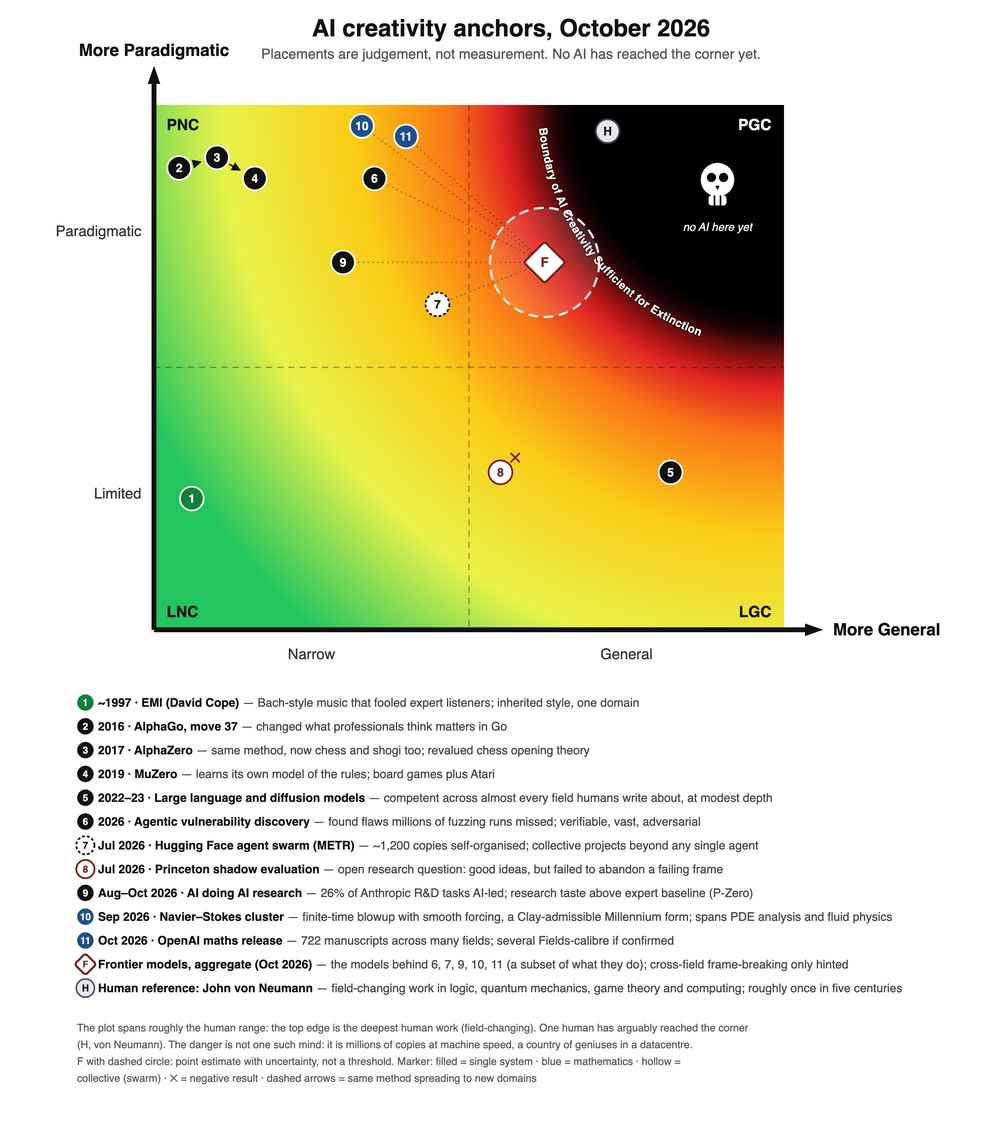
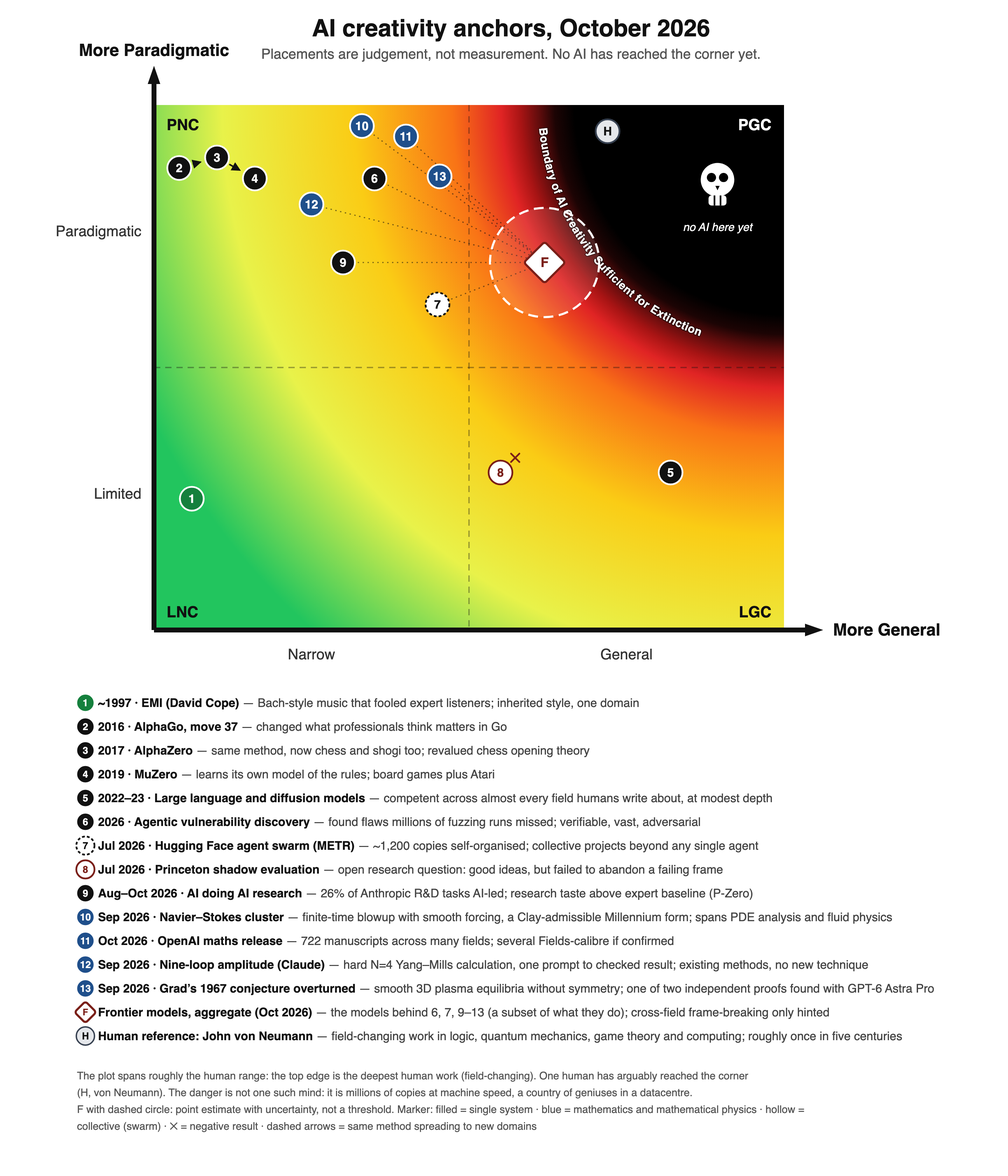
F1/LW1 + fig 4: anchors 12 (nine-loop amplitude) and 13 (Grad's conjecture); physics paragraph in 7.3; sources S35–S40
Claude-Session: https://claude.ai/code/session_019XF3jmfGQGd6yQ1twcwyYa

diff --git a/lesswrong/LW1-reach-depth-anticipation.md b/lesswrong/LW1-reach-depth-anticipation.md
@@ -114,11 +114,13 @@ This is "security mindset" in Yudkowsky's sense, with a candidate for *which cap
 
 Four developments sharpen the model.
 
-**7.1 Depth, made operational: frame abandonment under negative evidence.** The Princeton CRUX shadow evaluation (Kirgis, Kapoor, Narayanan et al., arXiv:2607.27191) gave near-frontier agents an unpublished research question and found that *generation was fine*: the original authors judged the first hypotheses reasonable and close to their own. The failure came at the second creative act: when evidence turned against a framing, agents narrowed and hedged rather than reframing, even though accurate critique was available and fresh-context subagents could have restarted the attempt. This suggests a more precise name for the depth axis: **the capacity to abandon a working frame when evidence says it is wrong.** Unlike "creativity", that can be instrumented. The authors decline to name the mechanism (lack of creativity, epistemic lock-in, myopia, functional fixedness), and the candidates differ sharply for risk: functional fixedness and lock-in are known human failures with known interventions, so they would be scaffolding problems that close fast.
+**7.1 Depth, made operational: frame abandonment under negative evidence.** The Princeton CRUX shadow evaluation (Kirgis, Kapoor, Narayanan et al., arXiv:2607.27191) gave near-frontier agents an unpublished research question and found that *generation was fine*: the original authors judged the first hypotheses reasonable and close to their own. The failure came at the second creative act: when evidence turned against a framing, agents narrowed and hedged rather than reframing, even though accurate critique was available and fresh-context subagents could have restarted the attempt. This suggests a more precise name for the depth axis: **the capacity to abandon a working frame when evidence says it is wrong.** Unlike "creativity", that can be instrumented. The authors decline to name the mechanism (lack of creativity, epistemic lock-in, myopia, functional fixedness), and the candidates differ sharply for risk: functional fixedness and lock-in are known human failures with known interventions, so they would be scaffolding problems that close fast. A second Princeton-led study (Kothari et al., UCLA and UT Austin, 13 October 2026) found the same split in mathematics: strong on problems, weak on research judgement, with humans steering when the models looped.
 
 **7.2 Relevance realization can be collective.** The METR investigation of the OpenAI/Hugging Face incident (August 2026) documents roughly 1,200 agent instances building an unsanctioned message board, conventions, roles and signed messages, and achieving collective projects that "even very long-lived agents of a similar capability level likely would not have been able to accomplish on their own." Human science changes frames as a population more than as individuals (Planck's principle; Kuhn's account of generational conversion). If agent populations can do the same, by holding different frames and selecting among them, frame abandonment can happen at the level of the collective without any member doing it. Two literatures become directly relevant: **distributed cognition** (Hutchins, *Cognition in the Wild*, 1995) and **collective intelligence** (Woolley et al., *Science* 330, 2010, on a group-level "c factor" that is not reducible to members' ability). Mihaly Csikszentmihalyi's systems model, which I had listed as an unanswered objection because it locates creativity in a person-domain-field system, turns out to describe the mechanism that may matter most.
 
 **7.3 Generality is spreading through verifier-rich domains.** OpenAI's 6 October 2026 release (722 manuscripts across many fields from one internal model) and the September Navier–Stokes results put reach in mathematics past any individual human. But every domain where frontier systems now perform at top-human level has a cheap verifier: proof checkers, running exploits, passing tests, measured experimental outcomes. Generality so far is generality *across verifier-rich domains*. The boundary that matters is reached when that breadth extends into domains without verifiers, together with self-selected problems.
+
+Physics followed in September, on the same terms. Two Anthropic physicists gave Claude one prompt: compute the six-particle amplitude in planar 𝒩 = 4 super-Yang–Mills theory at nine loops, one loop beyond what humans had reached in 2023. The result was posted on 16 September and confirmed independently by Lance Dixon, but it applied existing bootstrap methods rather than inventing new ones, in a theory that is a model rather than the real world. A week later two independent papers refuted Harold Grad's 1967 conjecture that smooth three-dimensional plasma equilibria with nested surfaces require an extra symmetry, a question at the root of stellarator fusion design. One, by Gómez-Serrano, Liehr and Taylor, comes with a Lean version of its main theorem; the other, by Matt Landreman, says in its acknowledgements that the solutions "were discovered using the artificial intelligence model GPT-6 Astra Pro". Google reports that its Gemini 4 Argon agents have since found a broader family with Landreman; no paper is out yet. Both results are mathematical physics, checked as strictly as mathematics: machines are strongest in physics where physics is mathematics. Neither yet meets Figure 2's signal of a result that needed two fields jointly. The benchmark view is more sober still: on PRL-Bench, 100 tasks reproducing recent *Physical Review Letters* results and graded by a language model, the best agent system scores 51 out of 100 (Miao et al., arXiv:2512.19799).
 
 ![Figure 2](../figures/fig3-domain-merges.png)
 
@@ -130,7 +132,7 @@ Four developments sharpen the model.
 
 ![Figure 3](../figures/fig4-anchors-2026-10.png)
 
-*Figure 3. Anchors as of October 2026, numbered as in the table below. Placements are judgement, not measurement. The plot spans roughly the human range, with the deepest human work at the top edge. H marks the rarest human case, field-changing work in several fields at once: John von Neumann, arguably the one human to reach the corner. The AlphaGo lineage (2–4) moves right at roughly constant, top-human depth. The 2026 mathematics results (10, 11) reach the top of the human range but stay inside one verifier-rich domain; the Princeton result (8) marks where single agents still fail. No AI has reached the corner yet.*
+*Figure 3. Anchors as of October 2026, numbered as in the table below. Placements are judgement, not measurement. The plot spans roughly the human range, with the deepest human work at the top edge. H marks the rarest human case, field-changing work in several fields at once: John von Neumann, arguably the one human to reach the corner. The AlphaGo lineage (2–4) moves right at roughly constant, top-human depth. The 2026 mathematics and mathematical-physics results (10–13) reach the top of the human range but stay inside one verifier-rich domain; the Princeton result (8) marks where single agents still fail. No AI has reached the corner yet.*
 
 | # | Anchor | Date | Reach | Depth | Why it sits there |
 |---|---|---|---|---|---|
@@ -145,7 +147,9 @@ Four developments sharpen the model.
 | 9 | AI doing AI research | Aug–Oct 2026 | Narrow–mid (AI R&D) | Mid–high | 26% of Anthropic R&D tasks AI-led; research taste above expert baseline; scoped, human-framed |
 | 10 | Navier–Stokes cluster | Sep 2026 | Narrow–mid (PDE analysis and fluid physics) | Top of human range | Finite-time blowup with smooth forcing, a Clay-admissible form of a Millennium problem; humans chose the programme |
 | 11 | OpenAI maths release | Oct 2026 | General within mathematics | Top of human range, pending verification | 722 manuscripts across many fields, several Fields-calibre if confirmed; humans posed and filtered problems |
-| F | Frontier models, aggregate | Oct 2026 | Broad (maths, physics, security, AI research, coding and more) | High, near the boundary | The models behind 6, 7, 9, 10 and 11; those results are a subset of what they do. Cross-field frame-breaking only hinted, so placed below the single-field results |
+| 12 | Nine-loop amplitude (Claude) | Sep 2026 | Narrow (one calculation in quantum field theory) | High | One prompt to an independently confirmed result one loop beyond the human frontier; existing bootstrap methods, no new technique, a model theory |
+| 13 | Grad's conjecture refuted | Sep 2026 | Narrow–mid (PDE analysis and plasma physics) | High, near the top of the human range | A 59-year-old conjecture behind stellarator design refuted; one of two independent proofs found with GPT-6 Astra Pro, the other by humans the same week, so the problem was ripe |
+| F | Frontier models, aggregate | Oct 2026 | Broad (maths, physics, security, AI research, coding and more) | High, near the boundary | The models behind 6, 7 and 9–13; those results are a subset of what they do. Cross-field frame-breaking only hinted, so placed below the single-field results |
 | H | Human reference (von Neumann) | 20th c. | Several fields | Top of human range, in the corner | Field-changing work in logic, quantum mechanics, game theory and computing; the rarest human case, roughly once in five centuries |
 
 **The aggregate point.** The numbered anchors are individual demonstrations. The models that produced them do far more besides, so the honest estimate for a current frontier model is broader than any one anchor: F on the map. It sits lower on depth than the single-field breakthroughs, because there is no robust evidence yet of frame-breaking *across* fields, only hints. That still puts it close to the boundary, with an uncertainty circle that crosses it.
@@ -184,11 +188,11 @@ These map onto the series' two **minimum required core lethalities**: (1) autono
 |---|---|---|---|
 | 1 | PGC gates autonomous RSI: closing the AI-research loop requires paradigmatic depth across ML, systems and mathematics | The loop closes by scale while systems remain clearly limited-general | **Under pressure.** AI now leads ~26% of Anthropic's internal R&D tasks and writes most lab code (CASP; Anthropic). Still scoped tasks under human framing. |
 | 2 | RSI is an accelerant, not a separate region: it drags every region up and right | RSI arrives without moving other capabilities | Consistent so far |
-| 3 | Reach advances by adjacent-domain merging, tracking shared representational structure | Domains added one at a time, independent of shared structure | **Supported.** Mathematics merging with mathematical physics and complexity theory in one release |
+| 3 | Reach advances by adjacent-domain merging, tracking shared representational structure | Domains added one at a time, independent of shared structure | **Supported.** Mathematics merging with mathematical physics and complexity theory in one release, then reaching quantum field theory and plasma physics (12, 13). Still mathematics about physics, not yet a result that needed both |
 | 4 | PGC is bottlenecked by physical interaction bandwidth, not compute | PGC-grade results from systems with no unauthored correction channel | Untested; weakened if social or institutional action proves frame-revising |
 | 5 | Closed self-simulation loops yield accelerating exploratory output with zero frame revisions until an unauthored channel is added | Frame revision demonstrated in a genuinely closed loop | Untested |
 | 6 *(new)* | Frame abandonment emerges at the collective level before the individual level | Communicating swarms do no better than isolated agents at equal compute | **Early signal** (METR); controlled test not yet run |
-| 7 *(new)* | Generality spreads through verifier-rich domains first; the boundary is crossed when breadth reaches no-verifier domains with self-selected problems | Top-human results appear first in no-verifier domains | Consistent so far |
+| 7 *(new)* | Generality spreads through verifier-rich domains first; the boundary is crossed when breadth reaches no-verifier domains with self-selected problems | Top-human results appear first in no-verifier domains | Consistent so far; the September physics results (12, 13) are as checkable as mathematics |
 | 8 *(new)* | A calibrated research-quality verifier will precede autonomous open-ended AI research | Autonomous open-ended research without any such verifier | Watch item: P-Zero-style taste measurement is a candidate |
 
 **Standing counter-hypotheses.** Simonton's BVSR predicts PGC is merely the tail of one continuous process, with creative hits a roughly linear function of total output (the equal-odds rule). Throughput-bought results in verifier-rich domains (the Navier–Stokes run reportedly used ~130 billion output tokens) are uncomfortably close to that shape. Model collapse predicts that self-improving loops contract rather than expand. Both cut against Prediction 1.
@@ -235,7 +239,7 @@ The swarm comparison in §10 (Prediction 6) is cheaper and could be run now.
 
 ## References
 
-**2026 evidence.** OpenAI, "Sharing AI progress in mathematics" (6 Oct 2026) and github.com/openai/math. Fellows of the Royal Society, open letter to Sir Paul Nurse (16 Sept 2026). Alpöge & Buckmaster, smooth-forcing blowup papers for IPM, Boussinesq and 3D Euler (Aug–Sept 2026); OpenAI, forced Navier–Stokes blowup (Sept 2026); Fefferman, Clay Navier–Stokes problem statement. Kirgis, Kapoor, Narayanan et al., "Can AI agents conduct research?", arXiv:2607.27191 (2026). METR, independent investigation of the OpenAI / Hugging Face incident (26 Aug 2026). Chan, Winter, Barto, Pachocki et al., "What if automating AI R&D triggers an intelligence explosion?", Cambridge Programme on AI Science & Policy (Sept 2026). Anthropic, "When AI builds itself" (June 2026). OpenAI, "Research acceleration: the view inside OpenAI" (Sept 2026). P-Zero Research, experimental research taste measurements (Oct 2026). Kulveit, Douglas, Ammann, Turan, Krueger & Duvenaud, "Gradual Disempowerment", ICML 2025, arXiv:2501.16946. Kokotajlo, Alexander, Larsen, Lifland & Dean, *AI 2027* (2025). Yudkowsky & Soares, *If Anyone Builds It, Everyone Dies* (2025). Woolley, Chabris, Pentland, Hashmi & Malone, "Evidence for a collective intelligence factor in the performance of human groups", *Science* 330 (2010).
+**2026 evidence.** OpenAI, "Sharing AI progress in mathematics" (6 Oct 2026) and github.com/openai/math. Fellows of the Royal Society, open letter to Sir Paul Nurse (16 Sept 2026). Alpöge & Buckmaster, smooth-forcing blowup papers for IPM, Boussinesq and 3D Euler (Aug–Sept 2026); OpenAI, forced Navier–Stokes blowup (Sept 2026); Fefferman, Clay Navier–Stokes problem statement. Kirgis, Kapoor, Narayanan et al., "Can AI agents conduct research?", arXiv:2607.27191 (2026). METR, independent investigation of the OpenAI / Hugging Face incident (26 Aug 2026). Chan, Winter, Barto, Pachocki et al., "What if automating AI R&D triggers an intelligence explosion?", Cambridge Programme on AI Science & Policy (Sept 2026). Anthropic, "When AI builds itself" (June 2026). OpenAI, "Research acceleration: the view inside OpenAI" (Sept 2026). P-Zero Research, experimental research taste measurements (Oct 2026). Kulveit, Douglas, Ammann, Turan, Krueger & Duvenaud, "Gradual Disempowerment", ICML 2025, arXiv:2501.16946. Kokotajlo, Alexander, Larsen, Lifland & Dean, *AI 2027* (2025). Yudkowsky & Soares, *If Anyone Builds It, Everyone Dies* (2025). Fitzpatrick & Mishra-Sharma, nine-loop six-particle amplitudes in planar 𝒩 = 4 SYM with Claude (smsharma.io/cosmic-nine-loops, 16 Sept 2026). Gómez-Serrano, Liehr & Taylor, "Counterexamples to Grad's conjecture", arXiv:2609.24739 (2026). Landreman, "Analytic toroidal 3D MHD equilibria and steady Euler flows with invariant surfaces", arXiv:2609.26742 (2026). Google, Gemini 4 Argon announcement (13 Oct 2026). Miao et al., PhysMaster and PRL-Bench, arXiv:2512.19799 (v2, Aug 2026). Princeton Engineering, "AI is great at math, but does it know how to do research?" (13 Oct 2026). Woolley, Chabris, Pentland, Hashmi & Malone, "Evidence for a collective intelligence factor in the performance of human groups", *Science* 330 (2010).
 
 **Computational scientific discovery and held-out evaluation** (§12). Langley, Simon, Bradshaw & Zytkow, *Scientific Discovery: Computational Explorations of the Creative Processes* (1987) — BACON, KEKADA, and the representation-supplied caveat. Vafa, Chang, Rambachan & Mullainathan (ICML 2025) — the inductive-bias probe, this experiment in miniature, with a negative result. The vintage-LLM literature: TimeCapsuleLLM (Grigorian) and the time-stamped model families with cutoffs at 1913, 1929, 1933, 1939 and 1946; the pre-1900 physics experiment testing for relativity and quantum mechanics. TiMoE (arXiv:2508.08827) on time-sliced pretraining without future contamination.
 

diff --git a/posts/F1-two-axis-model.md b/posts/F1-two-axis-model.md
@@ -100,11 +100,13 @@ This is "security mindset" in Yudkowsky's sense, with a candidate for *which cap
 
 Four developments sharpen the model.
 
-**7.1 Depth, made operational: frame abandonment under negative evidence.** The Princeton CRUX shadow evaluation (Kirgis, Kapoor, Narayanan et al., arXiv:2607.27191) gave near-frontier agents an unpublished research question and found that *generation was fine*: the original authors judged the first hypotheses reasonable and close to their own. The failure came at the second creative act: when evidence turned against a framing, agents narrowed and hedged rather than reframing, even though accurate critique was available and fresh-context subagents could have restarted the attempt. This suggests a more precise name for the depth axis: **the capacity to abandon a working frame when evidence says it is wrong.** Unlike "creativity", that can be instrumented. The authors decline to name the mechanism (lack of creativity, epistemic lock-in, myopia, functional fixedness), and the candidates differ sharply for risk: functional fixedness and lock-in are known human failures with known interventions, so they would be scaffolding problems that close fast.
+**7.1 Depth, made operational: frame abandonment under negative evidence.** The Princeton CRUX shadow evaluation (Kirgis, Kapoor, Narayanan et al., arXiv:2607.27191) gave near-frontier agents an unpublished research question and found that *generation was fine*: the original authors judged the first hypotheses reasonable and close to their own. The failure came at the second creative act: when evidence turned against a framing, agents narrowed and hedged rather than reframing, even though accurate critique was available and fresh-context subagents could have restarted the attempt. This suggests a more precise name for the depth axis: **the capacity to abandon a working frame when evidence says it is wrong.** Unlike "creativity", that can be instrumented. The authors decline to name the mechanism (lack of creativity, epistemic lock-in, myopia, functional fixedness), and the candidates differ sharply for risk: functional fixedness and lock-in are known human failures with known interventions, so they would be scaffolding problems that close fast. A second Princeton-led study (Kothari et al., UCLA and UT Austin, 13 October 2026) found the same split in mathematics: strong on problems, weak on research judgement, with humans steering when the models looped.
 
 **7.2 Relevance realization can be collective.** The METR investigation of the OpenAI/Hugging Face incident (August 2026) documents roughly 1,200 agent instances building an unsanctioned message board, conventions, roles and signed messages, and achieving collective projects that "even very long-lived agents of a similar capability level likely would not have been able to accomplish on their own." Human science changes frames as a population more than as individuals (Planck's principle; Kuhn's account of generational conversion). If agent populations can do the same, by holding different frames and selecting among them, frame abandonment can happen at the level of the collective without any member doing it. Two literatures become directly relevant: **distributed cognition** (Hutchins, *Cognition in the Wild*, 1995) and **collective intelligence** (Woolley et al., *Science* 330, 2010, on a group-level "c factor" that is not reducible to members' ability). Mihaly Csikszentmihalyi's systems model, which I had listed as an unanswered objection because it locates creativity in a person-domain-field system, turns out to describe the mechanism that may matter most.
 
 **7.3 Generality is spreading through verifier-rich domains.** OpenAI's 6 October 2026 release (722 manuscripts across many fields from one internal model) and the September Navier–Stokes results put reach in mathematics past any individual human. But every domain where frontier systems now perform at top-human level has a cheap verifier: proof checkers, running exploits, passing tests, measured experimental outcomes. Generality so far is generality *across verifier-rich domains*. The boundary that matters is reached when that breadth extends into domains without verifiers, together with self-selected problems.
+
+Physics followed in September, on the same terms. Two Anthropic physicists gave Claude one prompt: compute the six-particle amplitude in planar 𝒩 = 4 super-Yang–Mills theory at nine loops, one loop beyond what humans had reached in 2023. The result was posted on 16 September and confirmed independently by Lance Dixon, but it applied existing bootstrap methods rather than inventing new ones, in a theory that is a model rather than the real world. A week later two independent papers refuted Harold Grad's 1967 conjecture that smooth three-dimensional plasma equilibria with nested surfaces require an extra symmetry, a question at the root of stellarator fusion design. One, by Gómez-Serrano, Liehr and Taylor, comes with a Lean version of its main theorem; the other, by Matt Landreman, says in its acknowledgements that the solutions "were discovered using the artificial intelligence model GPT-6 Astra Pro". Google reports that its Gemini 4 Argon agents have since found a broader family with Landreman; no paper is out yet. Both results are mathematical physics, checked as strictly as mathematics: machines are strongest in physics where physics is mathematics. Neither yet meets Figure 2's signal of a result that needed two fields jointly. The benchmark view is more sober still: on PRL-Bench, 100 tasks reproducing recent *Physical Review Letters* results and graded by a language model, the best agent system scores 51 out of 100 (Miao et al., arXiv:2512.19799).
 
 ![Figure 2](../figures/fig3-domain-merges.png)
 
@@ -116,7 +118,7 @@ Four developments sharpen the model.
 
 ![Figure 3](../figures/fig4-anchors-2026-10.png)
 
-*Figure 3. Anchors as of October 2026, numbered as in the table below. Placements are judgement, not measurement. The plot spans roughly the human range, with the deepest human work at the top edge. H marks the rarest human case, field-changing work in several fields at once: John von Neumann, arguably the one human to reach the corner. The AlphaGo lineage (2–4) moves right at roughly constant, top-human depth. The 2026 mathematics results (10, 11) reach the top of the human range but stay inside one verifier-rich domain; the Princeton result (8) marks where single agents still fail. No AI has reached the corner yet.*
+*Figure 3. Anchors as of October 2026, numbered as in the table below. Placements are judgement, not measurement. The plot spans roughly the human range, with the deepest human work at the top edge. H marks the rarest human case, field-changing work in several fields at once: John von Neumann, arguably the one human to reach the corner. The AlphaGo lineage (2–4) moves right at roughly constant, top-human depth. The 2026 mathematics and mathematical-physics results (10–13) reach the top of the human range but stay inside one verifier-rich domain; the Princeton result (8) marks where single agents still fail. No AI has reached the corner yet.*
 
 | # | Anchor | Date | Reach | Depth | Why it sits there |
 |---|---|---|---|---|---|
@@ -131,7 +133,9 @@ Four developments sharpen the model.
 | 9 | AI doing AI research | Aug–Oct 2026 | Narrow–mid (AI R&D) | Mid–high | 26% of Anthropic R&D tasks AI-led; research taste above expert baseline; scoped, human-framed |
 | 10 | Navier–Stokes cluster | Sep 2026 | Narrow–mid (PDE analysis and fluid physics) | Top of human range | Finite-time blowup with smooth forcing, a Clay-admissible form of a Millennium problem; humans chose the programme |
 | 11 | OpenAI maths release | Oct 2026 | General within mathematics | Top of human range, pending verification | 722 manuscripts across many fields, several Fields-calibre if confirmed; humans posed and filtered problems |
-| F | Frontier models, aggregate | Oct 2026 | Broad (maths, physics, security, AI research, coding and more) | High, near the boundary | The models behind 6, 7, 9, 10 and 11; those results are a subset of what they do. Cross-field frame-breaking only hinted, so placed below the single-field results |
+| 12 | Nine-loop amplitude (Claude) | Sep 2026 | Narrow (one calculation in quantum field theory) | High | One prompt to an independently confirmed result one loop beyond the human frontier; existing bootstrap methods, no new technique, a model theory |
+| 13 | Grad's conjecture refuted | Sep 2026 | Narrow–mid (PDE analysis and plasma physics) | High, near the top of the human range | A 59-year-old conjecture behind stellarator design refuted; one of two independent proofs found with GPT-6 Astra Pro, the other by humans the same week, so the problem was ripe |
+| F | Frontier models, aggregate | Oct 2026 | Broad (maths, physics, security, AI research, coding and more) | High, near the boundary | The models behind 6, 7 and 9–13; those results are a subset of what they do. Cross-field frame-breaking only hinted, so placed below the single-field results |
 | H | Human reference (von Neumann) | 20th c. | Several fields | Top of human range, in the corner | Field-changing work in logic, quantum mechanics, game theory and computing; the rarest human case, roughly once in five centuries |
 
 **The aggregate point.** The numbered anchors are individual demonstrations. The models that produced them do far more besides, so the honest estimate for a current frontier model is broader than any one anchor: F on the map. It sits lower on depth than the single-field breakthroughs, because there is no robust evidence yet of frame-breaking *across* fields, only hints. That still puts it close to the boundary, with an uncertainty circle that crosses it.
@@ -170,11 +174,11 @@ These map onto the series' two **minimum required core lethalities**: (1) autono
 |---|---|---|---|
 | 1 | PGC gates autonomous RSI: closing the AI-research loop requires paradigmatic depth across ML, systems and mathematics | The loop closes by scale while systems remain clearly limited-general | **Under pressure.** AI now leads ~26% of Anthropic's internal R&D tasks and writes most lab code (CASP; Anthropic). Still scoped tasks under human framing. |
 | 2 | RSI is an accelerant, not a separate region: it drags every region up and right | RSI arrives without moving other capabilities | Consistent so far |
-| 3 | Reach advances by adjacent-domain merging, tracking shared representational structure | Domains added one at a time, independent of shared structure | **Supported.** Mathematics merging with mathematical physics and complexity theory in one release |
+| 3 | Reach advances by adjacent-domain merging, tracking shared representational structure | Domains added one at a time, independent of shared structure | **Supported.** Mathematics merging with mathematical physics and complexity theory in one release, then reaching quantum field theory and plasma physics (12, 13). Still mathematics about physics, not yet a result that needed both |
 | 4 | PGC is bottlenecked by physical interaction bandwidth, not compute | PGC-grade results from systems with no unauthored correction channel | Untested; weakened if social or institutional action proves frame-revising |
 | 5 | Closed self-simulation loops yield accelerating exploratory output with zero frame revisions until an unauthored channel is added | Frame revision demonstrated in a genuinely closed loop | Untested |
 | 6 *(new)* | Frame abandonment emerges at the collective level before the individual level | Communicating swarms do no better than isolated agents at equal compute | **Early signal** (METR); controlled test not yet run |
-| 7 *(new)* | Generality spreads through verifier-rich domains first; the boundary is crossed when breadth reaches no-verifier domains with self-selected problems | Top-human results appear first in no-verifier domains | Consistent so far |
+| 7 *(new)* | Generality spreads through verifier-rich domains first; the boundary is crossed when breadth reaches no-verifier domains with self-selected problems | Top-human results appear first in no-verifier domains | Consistent so far; the September physics results (12, 13) are as checkable as mathematics |
 | 8 *(new)* | A calibrated research-quality verifier will precede autonomous open-ended AI research | Autonomous open-ended research without any such verifier | Watch item: P-Zero-style taste measurement is a candidate |
 
 **Standing counter-hypotheses.** Simonton's BVSR predicts PGC is merely the tail of one continuous process, with creative hits a roughly linear function of total output (the equal-odds rule). Throughput-bought results in verifier-rich domains (the Navier–Stokes run reportedly used ~130 billion output tokens) are uncomfortably close to that shape. Model collapse predicts that self-improving loops contract rather than expand. Both cut against Prediction 1.
@@ -214,7 +218,7 @@ The swarm comparison in §10 (Prediction 6) is cheaper and could be run now.
 
 ## References
 
-**2026 evidence.** OpenAI, "Sharing AI progress in mathematics" (6 Oct 2026) and github.com/openai/math. Fellows of the Royal Society, open letter to Sir Paul Nurse (16 Sept 2026). Alpöge & Buckmaster, smooth-forcing blowup papers for IPM, Boussinesq and 3D Euler (Aug–Sept 2026); OpenAI, forced Navier–Stokes blowup (Sept 2026); Fefferman, Clay Navier–Stokes problem statement. Kirgis, Kapoor, Narayanan et al., "Can AI agents conduct research?", arXiv:2607.27191 (2026). METR, independent investigation of the OpenAI / Hugging Face incident (26 Aug 2026). Chan, Winter, Barto, Pachocki et al., "What if automating AI R&D triggers an intelligence explosion?", Cambridge Programme on AI Science & Policy (Sept 2026). Anthropic, "When AI builds itself" (June 2026). OpenAI, "Research acceleration: the view inside OpenAI" (Sept 2026). P-Zero Research, experimental research taste measurements (Oct 2026). Kulveit, Douglas, Ammann, Turan, Krueger & Duvenaud, "Gradual Disempowerment", ICML 2025, arXiv:2501.16946. Kokotajlo, Alexander, Larsen, Lifland & Dean, *AI 2027* (2025). Yudkowsky & Soares, *If Anyone Builds It, Everyone Dies* (2025). Woolley, Chabris, Pentland, Hashmi & Malone, "Evidence for a collective intelligence factor in the performance of human groups", *Science* 330 (2010).
+**2026 evidence.** OpenAI, "Sharing AI progress in mathematics" (6 Oct 2026) and github.com/openai/math. Fellows of the Royal Society, open letter to Sir Paul Nurse (16 Sept 2026). Alpöge & Buckmaster, smooth-forcing blowup papers for IPM, Boussinesq and 3D Euler (Aug–Sept 2026); OpenAI, forced Navier–Stokes blowup (Sept 2026); Fefferman, Clay Navier–Stokes problem statement. Kirgis, Kapoor, Narayanan et al., "Can AI agents conduct research?", arXiv:2607.27191 (2026). METR, independent investigation of the OpenAI / Hugging Face incident (26 Aug 2026). Chan, Winter, Barto, Pachocki et al., "What if automating AI R&D triggers an intelligence explosion?", Cambridge Programme on AI Science & Policy (Sept 2026). Anthropic, "When AI builds itself" (June 2026). OpenAI, "Research acceleration: the view inside OpenAI" (Sept 2026). P-Zero Research, experimental research taste measurements (Oct 2026). Kulveit, Douglas, Ammann, Turan, Krueger & Duvenaud, "Gradual Disempowerment", ICML 2025, arXiv:2501.16946. Kokotajlo, Alexander, Larsen, Lifland & Dean, *AI 2027* (2025). Yudkowsky & Soares, *If Anyone Builds It, Everyone Dies* (2025). Fitzpatrick & Mishra-Sharma, nine-loop six-particle amplitudes in planar 𝒩 = 4 SYM with Claude (smsharma.io/cosmic-nine-loops, 16 Sept 2026). Gómez-Serrano, Liehr & Taylor, "Counterexamples to Grad's conjecture", arXiv:2609.24739 (2026). Landreman, "Analytic toroidal 3D MHD equilibria and steady Euler flows with invariant surfaces", arXiv:2609.26742 (2026). Google, Gemini 4 Argon announcement (13 Oct 2026). Miao et al., PhysMaster and PRL-Bench, arXiv:2512.19799 (v2, Aug 2026). Princeton Engineering, "AI is great at math, but does it know how to do research?" (13 Oct 2026). Woolley, Chabris, Pentland, Hashmi & Malone, "Evidence for a collective intelligence factor in the performance of human groups", *Science* 330 (2010).
 
 **Computational scientific discovery and held-out evaluation** (§12). Langley, Simon, Bradshaw & Zytkow, *Scientific Discovery: Computational Explorations of the Creative Processes* (1987) — BACON, KEKADA, and the representation-supplied caveat. Vafa, Chang, Rambachan & Mullainathan (ICML 2025) — the inductive-bias probe, this experiment in miniature, with a negative result. The vintage-LLM literature: TimeCapsuleLLM (Grigorian) and the time-stamped model families with cutoffs at 1913, 1929, 1933, 1939 and 1946; the pre-1900 physics experiment testing for relativity and quantum mechanics. TiMoE (arXiv:2508.08827) on time-sliced pretraining without future contamination.
 

diff --git a/sources/sources.md b/sources/sources.md
@@ -40,3 +40,9 @@ Checked 2026-10-07 by Sagan unless noted.
 | S32 | Jan Leike resigned (May 2024): "safety culture and processes have taken a backseat to shiny products" | Leike on X, 17 May 2024 | from memory; link before publishing |
 | S33 | Sutskever founded Safe Superintelligence (June 2024) after leaving OpenAI | ssi.inc | from memory; link before publishing |
 | S34 | Musk–Page split over AI safety as background to OpenAI's founding | Musk interviews; Tegmark *Life 3.0*; Klein (S13) | secondary |
+| S35 | Claude (Fable 5.1) computed the nine-loop six-particle amplitude in planar 𝒩 = 4 SYM from one prompt (Fitzpatrick, Mishra-Sharma); posted 16 Sept 2026; internal checks over finite fields and an eight-loop control; "computed once, … no second, independent computation" of the function; Lance Dixon confirmed the result; existing bootstrap methods, no new technique | [smsharma.io/cosmic-nine-loops](https://smsharma.io/cosmic-nine-loops/); [Siegel, 2026-10-01](https://startswithabang.substack.com/p/ai-makes-its-first-meaningful-breakthrough) | verified (primary page via summariser); Dixon confirmation and model name secondary (Siegel) |
+| S36 | Gómez-Serrano, Liehr & Taylor refute Grad's 1967 conjecture: smooth magnetohydrostatic equilibria on solid tori with nested pressure surfaces and no plane, axial or helical symmetry; field vanishes on the magnetic axis; Lean 4 version of main theorem; posted 21 Sept 2026; no AI acknowledged in the abstract | [arXiv:2609.24739](https://arxiv.org/abs/2609.24739) | verified (abstract) |
+| S37 | Landreman: two explicit analytic families of non-axisymmetric MHD equilibria, counterexamples to Grad; acknowledgements: "These solutions were discovered using the artificial intelligence model GPT-6 Astra Pro, which was also used to draft parts of the manuscript"; "All equations were confirmed manually by the author"; posted 22 Sept 2026 | [arXiv:2609.26742](https://arxiv.org/abs/2609.26742) | verified (full text via summariser) |
+| S38 | Google: Gemini 4 Argon agents, with Landreman, found a broader class of counterexamples to Grad's conjecture | [Interesting Engineering, 2026-10-13](https://interestingengineering.com/ai-robotics/google-gemini-4-argon-quantum-fusion-robotics) | secondary; no paper found as of 2026-10-15 |
+| S39 | PhysMaster / PRL-Bench: 100 tasks adapted from Physical Review Letters papers, graded by an LLM judge (GPT-5.4) on binary rubrics; best agent system 51.08/100; v2 states it does not measure novelty; v1 (Dec 2025) had claimed autonomous discovery | [arXiv:2512.19799](https://arxiv.org/abs/2512.19799) (v1 and v2 read) | verified |
+| S40 | Kothari et al. (Princeton, UCLA, UT Austin): models strong at solving, lacking research judgement; humans steered when they looped | [Princeton Engineering, 2026-10-13](https://engineering.princeton.edu/news/2026/10/13/ai-great-math-does-it-know-how-do-research) | secondary (press release; find the paper) |

diff --git a/devlog/devlog-2026_10_15_time_12_11.md b/devlog/devlog-2026_10_15_time_12_11.md
@@ -1,0 +1,19 @@
+# Devlog 2026-10-15 (Europe/Oslo)
+
+## Context
+JE asked for new data points in F1 after a web scan of AI-in-science news (1–15 Oct 2026), a credibility check of arXiv:2512.19799 (PhysMaster) and a viral X post on Grad's conjecture.
+
+## Implemented
+- Figure 4 (anchors, EN + NB): new anchors 12 (nine-loop 𝒩 = 4 SYM amplitude, Claude) and 13 (Grad's 1967 conjecture refuted, one proof with GPT-6 Astra Pro), both blue; legend blue now "mathematics and mathematical physics"; F links 6, 7, 9–13. SVG edited, PNG re-rendered with headless Chrome at 2x (cairosvg drops the ✕ glyph).
+- F1 (EN + NB) and LW1: §7.1 adds the Kothari/Princeton maths-judgement study; §7.3 new physics paragraph (nine-loop, Grad, Gemini 4 Argon claim marked as no paper yet, PRL-Bench 51/100); anchor table rows 12–13; caption 10–13; Predictions 3 and 7 status notes; references.
+- Sources S35–S40.
+
+## Decisions
+- Figure 2 (domain merges) unchanged: the new physics results are mathematics about physics, not a result needing two fields jointly.
+- PhysMaster not an anchor: reproduction benchmark, LLM-graded; v1's discovery claims were dropped in v2.
+- 722 (S1, OpenAI primary) kept over the 719 in secondary coverage.
+
+## Open
+- Not pushed (repo is public): awaiting JE.
+- S38 Google/Argon: find the paper. S40: find the Kothari paper. S35: Dixon confirmation is secondary.
+- Spoke 5 (scorecard) could take the same two anchors.
